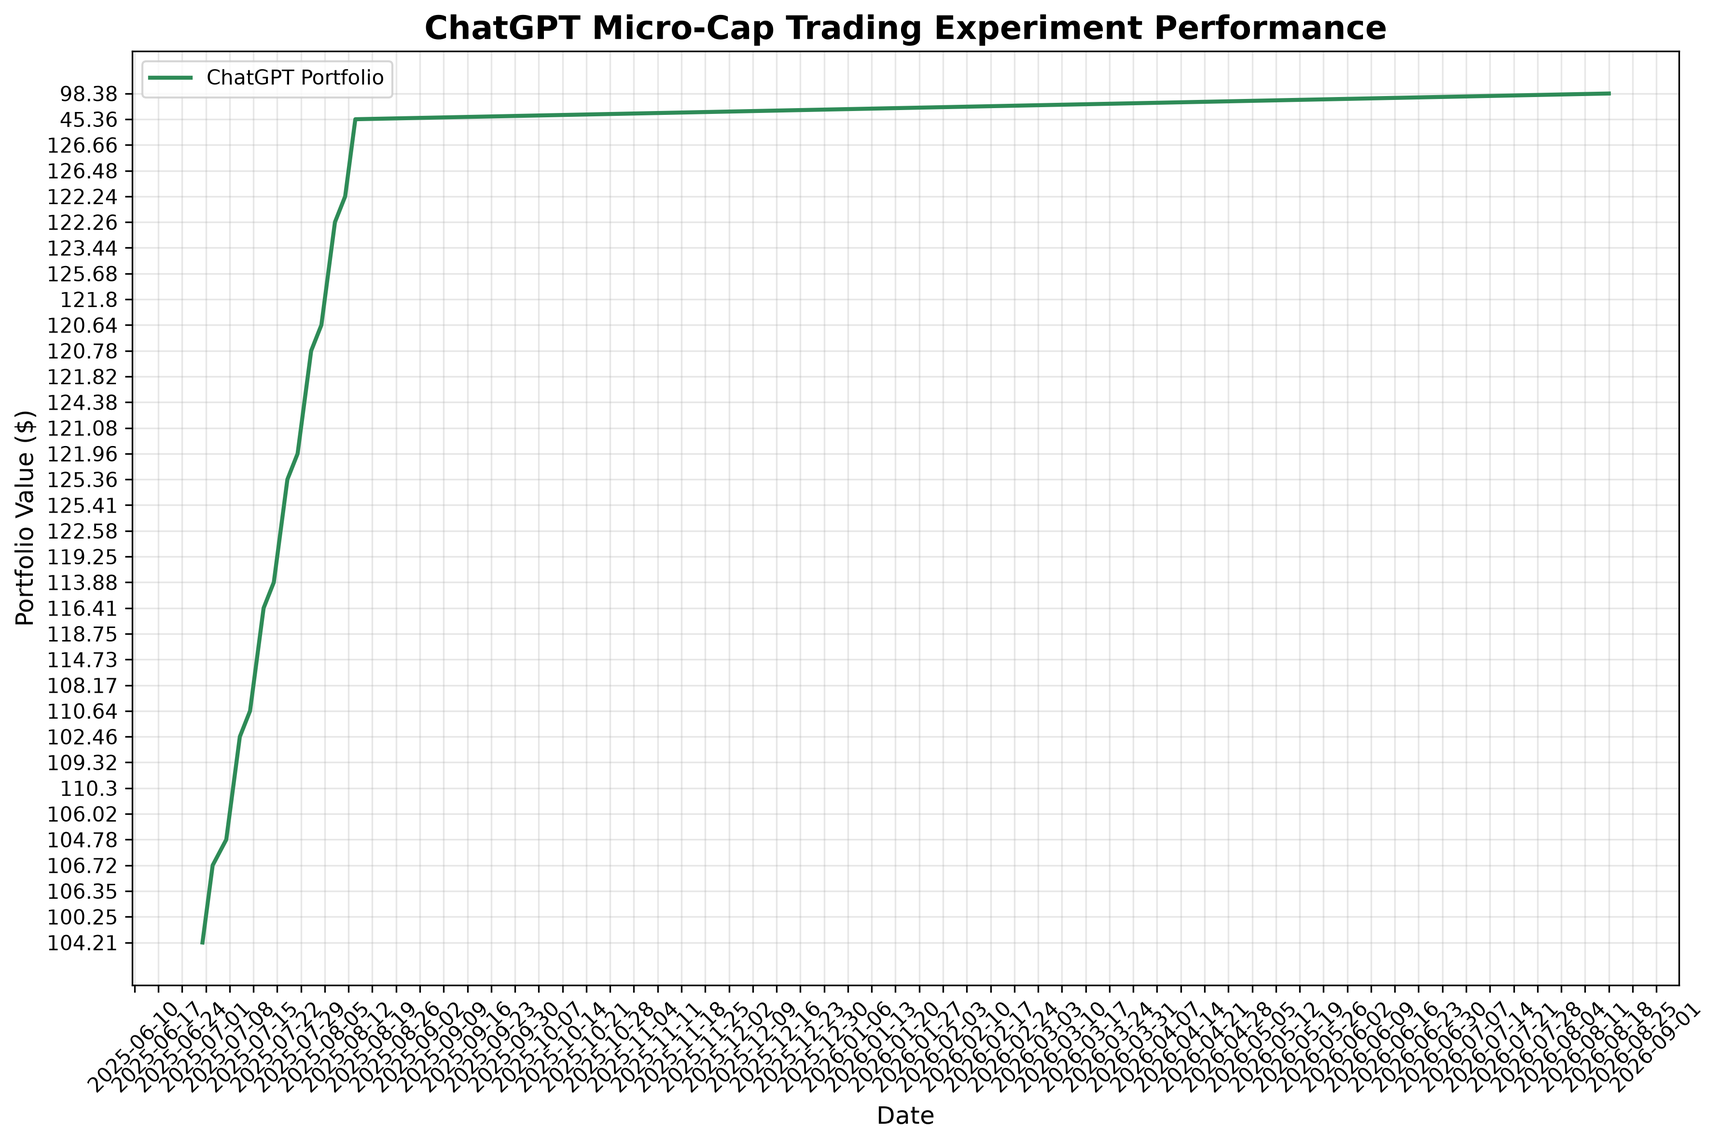
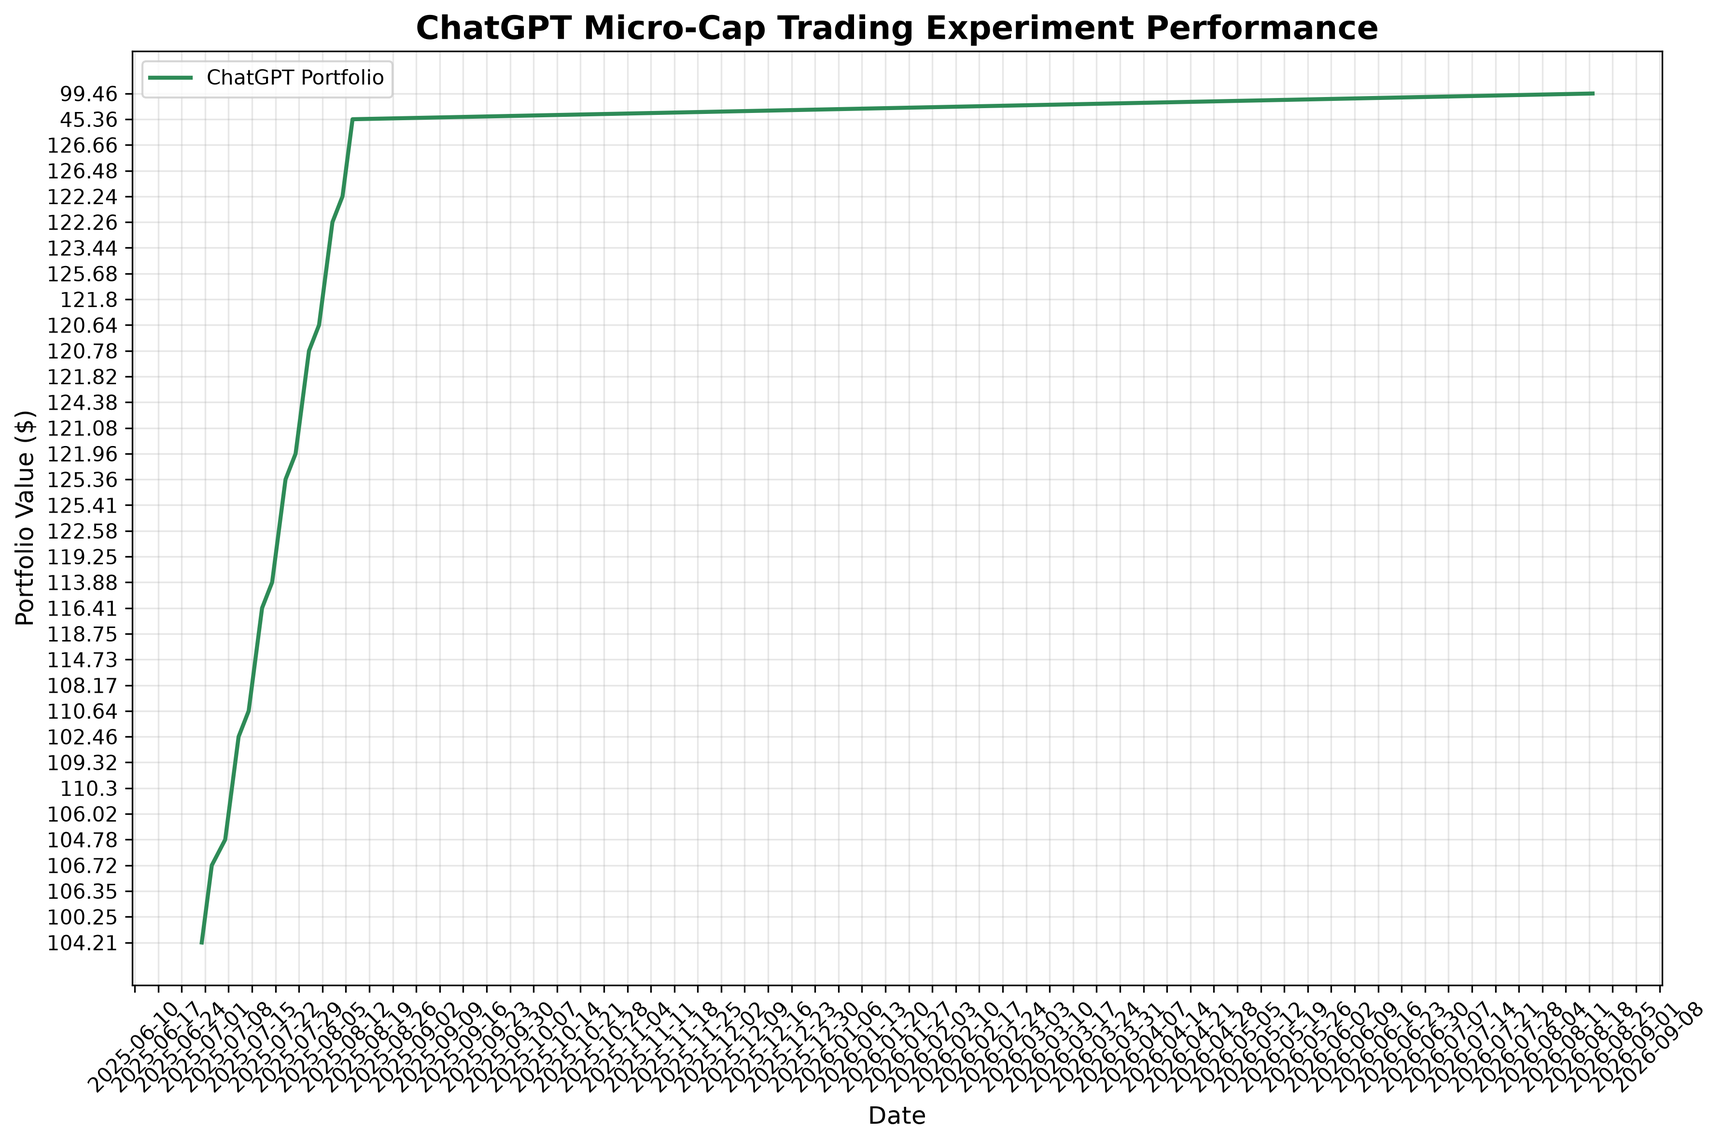
deploy: e15cad030d70fb3fbb51f9df6e22fa70c2f175c0

diff --git a/index.html b/index.html
@@ -105,7 +105,7 @@
                 <div class="stat-label">Total Trades</div>
             </div>
             <div class="stat-card">
-                <div class="stat-value" id="last-updated">2026-08-18</div>
+                <div class="stat-value" id="last-updated">2026-08-19</div>
                 <div class="stat-label">Last Updated</div>
             </div>
         </div>
@@ -160,8 +160,8 @@
     
     <script>
         // Portfolio data
-        const portfolioData = JSON.parse("[{&quot;Date&quot;: &quot;2025-08-11&quot;, &quot;Ticker&quot;: &quot;ABEO&quot;, &quot;Shares&quot;: 4.0, &quot;Buy Price&quot;: 5.77, &quot;Cost Basis&quot;: 23.08, &quot;Stop Loss&quot;: 4.9, &quot;Current Price&quot;: 6.28, &quot;Total Value&quot;: 25.12, &quot;PnL&quot;: 2.04, &quot;Action&quot;: &quot;HOLD&quot;, &quot;Cash Balance&quot;: NaN, &quot;Total Equity&quot;: NaN}, {&quot;Date&quot;: &quot;2025-08-11&quot;, &quot;Ticker&quot;: &quot;ACTU&quot;, &quot;Shares&quot;: 6.0, &quot;Buy Price&quot;: 5.75, &quot;Cost Basis&quot;: 34.5, &quot;Stop Loss&quot;: 4.89, &quot;Current Price&quot;: 8.01, &quot;Total Value&quot;: 48.06, &quot;PnL&quot;: 13.56, &quot;Action&quot;: &quot;HOLD&quot;, &quot;Cash Balance&quot;: NaN, &quot;Total Equity&quot;: NaN}, {&quot;Date&quot;: &quot;2025-08-11&quot;, &quot;Ticker&quot;: &quot;ESPR&quot;, &quot;Shares&quot;: 2.0, &quot;Buy Price&quot;: 1.91, &quot;Cost Basis&quot;: 3.82, &quot;Stop Loss&quot;: 1.6, &quot;Current Price&quot;: 1.85, &quot;Total Value&quot;: 3.7, &quot;PnL&quot;: -0.12, &quot;Action&quot;: &quot;HOLD&quot;, &quot;Cash Balance&quot;: NaN, &quot;Total Equity&quot;: NaN}, {&quot;Date&quot;: &quot;2025-08-11&quot;, &quot;Ticker&quot;: &quot;TOTAL&quot;, &quot;Shares&quot;: NaN, &quot;Buy Price&quot;: NaN, &quot;Cost Basis&quot;: NaN, &quot;Stop Loss&quot;: NaN, &quot;Current Price&quot;: NaN, &quot;Total Value&quot;: 76.88, &quot;PnL&quot;: 15.48, &quot;Action&quot;: NaN, &quot;Cash Balance&quot;: 45.36, &quot;Total Equity&quot;: &quot;122.24&quot;}, {&quot;Date&quot;: &quot;2025-08-12&quot;, &quot;Ticker&quot;: &quot;ABEO&quot;, &quot;Shares&quot;: 4.0, &quot;Buy Price&quot;: 5.77, &quot;Cost Basis&quot;: 23.08, &quot;Stop Loss&quot;: 4.9, &quot;Current Price&quot;: 6.38, &quot;Total Value&quot;: 25.52, &quot;PnL&quot;: 2.44, &quot;Action&quot;: &quot;HOLD&quot;, &quot;Cash Balance&quot;: NaN, &quot;Total Equity&quot;: NaN}, {&quot;Date&quot;: &quot;2025-08-12&quot;, &quot;Ticker&quot;: &quot;ACTU&quot;, &quot;Shares&quot;: 6.0, &quot;Buy Price&quot;: 5.75, &quot;Cost Basis&quot;: 34.5, &quot;Stop Loss&quot;: 4.89, &quot;Current Price&quot;: 8.67, &quot;Total Value&quot;: 52.02, &quot;PnL&quot;: 17.52, &quot;Action&quot;: &quot;HOLD&quot;, &quot;Cash Balance&quot;: NaN, &quot;Total Equity&quot;: NaN}, {&quot;Date&quot;: &quot;2025-08-12&quot;, &quot;Ticker&quot;: &quot;ESPR&quot;, &quot;Shares&quot;: 2.0, &quot;Buy Price&quot;: 1.91, &quot;Cost Basis&quot;: 3.82, &quot;Stop Loss&quot;: 1.6, &quot;Current Price&quot;: 1.79, &quot;Total Value&quot;: 3.58, &quot;PnL&quot;: -0.24, &quot;Action&quot;: &quot;HOLD&quot;, &quot;Cash Balance&quot;: NaN, &quot;Total Equity&quot;: NaN}, {&quot;Date&quot;: &quot;2025-08-12&quot;, &quot;Ticker&quot;: &quot;TOTAL&quot;, &quot;Shares&quot;: NaN, &quot;Buy Price&quot;: NaN, &quot;Cost Basis&quot;: NaN, &quot;Stop Loss&quot;: NaN, &quot;Current Price&quot;: NaN, &quot;Total Value&quot;: 81.12, &quot;PnL&quot;: 19.72, &quot;Action&quot;: NaN, &quot;Cash Balance&quot;: 45.36, &quot;Total Equity&quot;: &quot;126.48&quot;}, {&quot;Date&quot;: &quot;2025-08-13&quot;, &quot;Ticker&quot;: &quot;ABEO&quot;, &quot;Shares&quot;: 4.0, &quot;Buy Price&quot;: 5.77, &quot;Cost Basis&quot;: 23.08, &quot;Stop Loss&quot;: 4.9, &quot;Current Price&quot;: 6.56, &quot;Total Value&quot;: 26.24, &quot;PnL&quot;: 3.16, &quot;Action&quot;: &quot;HOLD&quot;, &quot;Cash Balance&quot;: NaN, &quot;Total Equity&quot;: NaN}, {&quot;Date&quot;: &quot;2025-08-13&quot;, &quot;Ticker&quot;: &quot;ACTU&quot;, &quot;Shares&quot;: 6.0, &quot;Buy Price&quot;: 5.75, &quot;Cost Basis&quot;: 34.5, &quot;Stop Loss&quot;: 4.89, &quot;Current Price&quot;: 8.53, &quot;Total Value&quot;: 51.18, &quot;PnL&quot;: 16.68, &quot;Action&quot;: &quot;HOLD&quot;, &quot;Cash Balance&quot;: NaN, &quot;Total Equity&quot;: NaN}, {&quot;Date&quot;: &quot;2025-08-13&quot;, &quot;Ticker&quot;: &quot;ESPR&quot;, &quot;Shares&quot;: 2.0, &quot;Buy Price&quot;: 1.91, &quot;Cost Basis&quot;: 3.82, &quot;Stop Loss&quot;: 1.6, &quot;Current Price&quot;: 1.94, &quot;Total Value&quot;: 3.88, &quot;PnL&quot;: 0.06, &quot;Action&quot;: &quot;HOLD&quot;, &quot;Cash Balance&quot;: NaN, &quot;Total Equity&quot;: NaN}, {&quot;Date&quot;: &quot;2025-08-13&quot;, &quot;Ticker&quot;: &quot;TOTAL&quot;, &quot;Shares&quot;: NaN, &quot;Buy Price&quot;: NaN, &quot;Cost Basis&quot;: NaN, &quot;Stop Loss&quot;: NaN, &quot;Current Price&quot;: NaN, &quot;Total Value&quot;: 81.3, &quot;PnL&quot;: 19.9, &quot;Action&quot;: NaN, &quot;Cash Balance&quot;: 45.36, &quot;Total Equity&quot;: &quot;126.66&quot;}, {&quot;Date&quot;: &quot;2025-08-14&quot;, &quot;Ticker&quot;: &quot;ABEO&quot;, &quot;Shares&quot;: 4.0, &quot;Buy Price&quot;: 5.77, &quot;Cost Basis&quot;: 23.08, &quot;Stop Loss&quot;: 4.9, &quot;Current Price&quot;: NaN, &quot;Total Value&quot;: NaN, &quot;PnL&quot;: NaN, &quot;Action&quot;: &quot;NO DATA&quot;, &quot;Cash Balance&quot;: NaN, &quot;Total Equity&quot;: NaN}, {&quot;Date&quot;: &quot;2025-08-14&quot;, &quot;Ticker&quot;: &quot;ACTU&quot;, &quot;Shares&quot;: 6.0, &quot;Buy Price&quot;: 5.75, &quot;Cost Basis&quot;: 34.5, &quot;Stop Loss&quot;: 4.89, &quot;Current Price&quot;: NaN, &quot;Total Value&quot;: NaN, &quot;PnL&quot;: NaN, &quot;Action&quot;: &quot;NO DATA&quot;, &quot;Cash Balance&quot;: NaN, &quot;Total Equity&quot;: NaN}, {&quot;Date&quot;: &quot;2025-08-14&quot;, &quot;Ticker&quot;: &quot;ESPR&quot;, &quot;Shares&quot;: 2.0, &quot;Buy Price&quot;: 1.91, &quot;Cost Basis&quot;: 3.82, &quot;Stop Loss&quot;: 1.6, &quot;Current Price&quot;: NaN, &quot;Total Value&quot;: NaN, &quot;PnL&quot;: NaN, &quot;Action&quot;: &quot;NO DATA&quot;, &quot;Cash Balance&quot;: NaN, &quot;Total Equity&quot;: NaN}, {&quot;Date&quot;: &quot;2025-08-14&quot;, &quot;Ticker&quot;: &quot;TOTAL&quot;, &quot;Shares&quot;: NaN, &quot;Buy Price&quot;: NaN, &quot;Cost Basis&quot;: NaN, &quot;Stop Loss&quot;: NaN, &quot;Current Price&quot;: NaN, &quot;Total Value&quot;: 0.0, &quot;PnL&quot;: 0.0, &quot;Action&quot;: NaN, &quot;Cash Balance&quot;: 45.36, &quot;Total Equity&quot;: &quot;45.36&quot;}, {&quot;Date&quot;: &quot;2026-08-18&quot;, &quot;Ticker&quot;: &quot;ABEO&quot;, &quot;Shares&quot;: 4.0, &quot;Buy Price&quot;: 5.77, &quot;Cost Basis&quot;: 23.08, &quot;Stop Loss&quot;: 4.9, &quot;Current Price&quot;: 5.92, &quot;Total Value&quot;: 23.68, &quot;PnL&quot;: 0.6, &quot;Action&quot;: &quot;HOLD&quot;, &quot;Cash Balance&quot;: NaN, &quot;Total Equity&quot;: NaN}, {&quot;Date&quot;: &quot;2026-08-18&quot;, &quot;Ticker&quot;: &quot;ACTU&quot;, &quot;Shares&quot;: 6.0, &quot;Buy Price&quot;: 5.75, &quot;Cost Basis&quot;: 34.5, &quot;Stop Loss&quot;: 4.89, &quot;Current Price&quot;: 4.89, &quot;Total Value&quot;: 29.34, &quot;PnL&quot;: -5.16, &quot;Action&quot;: &quot;SELL - Stop Loss Triggered&quot;, &quot;Cash Balance&quot;: NaN, &quot;Total Equity&quot;: NaN}, {&quot;Date&quot;: &quot;2026-08-18&quot;, &quot;Ticker&quot;: &quot;ESPR&quot;, &quot;Shares&quot;: 2.0, &quot;Buy Price&quot;: 1.91, &quot;Cost Basis&quot;: 3.82, &quot;Stop Loss&quot;: 1.6, &quot;Current Price&quot;: NaN, &quot;Total Value&quot;: NaN, &quot;PnL&quot;: NaN, &quot;Action&quot;: &quot;NO DATA&quot;, &quot;Cash Balance&quot;: NaN, &quot;Total Equity&quot;: NaN}, {&quot;Date&quot;: &quot;2026-08-18&quot;, &quot;Ticker&quot;: &quot;TOTAL&quot;, &quot;Shares&quot;: NaN, &quot;Buy Price&quot;: NaN, &quot;Cost Basis&quot;: NaN, &quot;Stop Loss&quot;: NaN, &quot;Current Price&quot;: NaN, &quot;Total Value&quot;: 23.68, &quot;PnL&quot;: 0.6, &quot;Action&quot;: NaN, &quot;Cash Balance&quot;: 74.7, &quot;Total Equity&quot;: &quot;98.38&quot;}]");
-        const tradeData = JSON.parse("[{&quot;Date&quot;: &quot;2025-07-08&quot;, &quot;Ticker&quot;: &quot;IINN&quot;, &quot;Shares Bought&quot;: 20.0, &quot;Buy Price&quot;: 1.5, &quot;Cost Basis&quot;: 30.0, &quot;PnL&quot;: 0.0, &quot;Reason&quot;: &quot;MANUAL BUY - New position&quot;, &quot;Shares Sold&quot;: NaN, &quot;Sell Price&quot;: NaN}, {&quot;Date&quot;: &quot;2025-07-21&quot;, &quot;Ticker&quot;: &quot;CADL&quot;, &quot;Shares Bought&quot;: NaN, &quot;Buy Price&quot;: NaN, &quot;Cost Basis&quot;: 25.2, &quot;PnL&quot;: 8.5, &quot;Reason&quot;: &quot;MANUAL SELL - GAIN CAPITAL FOR ACTU&quot;, &quot;Shares Sold&quot;: 5.0, &quot;Sell Price&quot;: 6.59}, {&quot;Date&quot;: &quot;2025-07-21&quot;, &quot;Ticker&quot;: &quot;ACTU&quot;, &quot;Shares Bought&quot;: 6.0, &quot;Buy Price&quot;: 5.75, &quot;Cost Basis&quot;: 34.5, &quot;PnL&quot;: 0.0, &quot;Reason&quot;: &quot;MANUAL BUY - New position&quot;, &quot;Shares Sold&quot;: NaN, &quot;Sell Price&quot;: NaN}, {&quot;Date&quot;: &quot;2025-07-28&quot;, &quot;Ticker&quot;: &quot;IINN&quot;, &quot;Shares Bought&quot;: NaN, &quot;Buy Price&quot;: NaN, &quot;Cost Basis&quot;: 9.0, &quot;PnL&quot;: -0.5400000000000009, &quot;Reason&quot;: &quot;MANUAL SELL - POSITION REDUCTION&quot;, &quot;Shares Sold&quot;: 6.0, &quot;Sell Price&quot;: 1.41}, {&quot;Date&quot;: &quot;2025-07-29&quot;, &quot;Ticker&quot;: &quot;AZTR&quot;, &quot;Shares Bought&quot;: NaN, &quot;Buy Price&quot;: NaN, &quot;Cost Basis&quot;: 13.75, &quot;PnL&quot;: -2.75, &quot;Reason&quot;: &quot;MANUAL SELL - DILUTION RISK&quot;, &quot;Shares Sold&quot;: 55.0, &quot;Sell Price&quot;: 0.2}, {&quot;Date&quot;: &quot;2025-08-01&quot;, &quot;Ticker&quot;: &quot;IINN&quot;, &quot;Shares Bought&quot;: 2.0, &quot;Buy Price&quot;: 1.74, &quot;Cost Basis&quot;: 3.48, &quot;PnL&quot;: 0.0, &quot;Reason&quot;: &quot;MANUAL BUY - New position&quot;, &quot;Shares Sold&quot;: NaN, &quot;Sell Price&quot;: NaN}, {&quot;Date&quot;: &quot;2025-08-01&quot;, &quot;Ticker&quot;: &quot;ABEO&quot;, &quot;Shares Bought&quot;: NaN, &quot;Buy Price&quot;: NaN, &quot;Cost Basis&quot;: 11.54, &quot;PnL&quot;: 1.200000000000001, &quot;Reason&quot;: &quot;MANUAL SELL - TRIM AFTER SUPPORT LOSS&quot;, &quot;Shares Sold&quot;: 2.0, &quot;Sell Price&quot;: 6.37}, {&quot;Date&quot;: &quot;2025-08-07&quot;, &quot;Ticker&quot;: &quot;ESPR&quot;, &quot;Shares Bought&quot;: 2.0, &quot;Buy Price&quot;: 1.91, &quot;Cost Basis&quot;: 3.82, &quot;PnL&quot;: 0.0, &quot;Reason&quot;: &quot;MANUAL BUY - New position&quot;, &quot;Shares Sold&quot;: NaN, &quot;Sell Price&quot;: NaN}, {&quot;Date&quot;: &quot;2025-08-08&quot;, &quot;Ticker&quot;: &quot;IINN&quot;, &quot;Shares Bought&quot;: NaN, &quot;Buy Price&quot;: NaN, &quot;Cost Basis&quot;: 1.5, &quot;PnL&quot;: -6.4, &quot;Reason&quot;: &quot;AUTOMATED SELL - STOPLOSS TRIGGERED&quot;, &quot;Shares Sold&quot;: 16.0, &quot;Sell Price&quot;: 1.1}, {&quot;Date&quot;: &quot;2026-08-18&quot;, &quot;Ticker&quot;: &quot;ACTU&quot;, &quot;Shares Bought&quot;: NaN, &quot;Buy Price&quot;: NaN, &quot;Cost Basis&quot;: 5.75, &quot;PnL&quot;: -5.16, &quot;Reason&quot;: &quot;AUTOMATED SELL - STOPLOSS TRIGGERED&quot;, &quot;Shares Sold&quot;: 6.0, &quot;Sell Price&quot;: 4.89}]");
+        const portfolioData = JSON.parse("[{&quot;Date&quot;: &quot;2025-08-11&quot;, &quot;Ticker&quot;: &quot;ABEO&quot;, &quot;Shares&quot;: 4.0, &quot;Buy Price&quot;: 5.77, &quot;Cost Basis&quot;: 23.08, &quot;Stop Loss&quot;: 4.9, &quot;Current Price&quot;: 6.28, &quot;Total Value&quot;: 25.12, &quot;PnL&quot;: 2.04, &quot;Action&quot;: &quot;HOLD&quot;, &quot;Cash Balance&quot;: NaN, &quot;Total Equity&quot;: NaN}, {&quot;Date&quot;: &quot;2025-08-11&quot;, &quot;Ticker&quot;: &quot;ACTU&quot;, &quot;Shares&quot;: 6.0, &quot;Buy Price&quot;: 5.75, &quot;Cost Basis&quot;: 34.5, &quot;Stop Loss&quot;: 4.89, &quot;Current Price&quot;: 8.01, &quot;Total Value&quot;: 48.06, &quot;PnL&quot;: 13.56, &quot;Action&quot;: &quot;HOLD&quot;, &quot;Cash Balance&quot;: NaN, &quot;Total Equity&quot;: NaN}, {&quot;Date&quot;: &quot;2025-08-11&quot;, &quot;Ticker&quot;: &quot;ESPR&quot;, &quot;Shares&quot;: 2.0, &quot;Buy Price&quot;: 1.91, &quot;Cost Basis&quot;: 3.82, &quot;Stop Loss&quot;: 1.6, &quot;Current Price&quot;: 1.85, &quot;Total Value&quot;: 3.7, &quot;PnL&quot;: -0.12, &quot;Action&quot;: &quot;HOLD&quot;, &quot;Cash Balance&quot;: NaN, &quot;Total Equity&quot;: NaN}, {&quot;Date&quot;: &quot;2025-08-11&quot;, &quot;Ticker&quot;: &quot;TOTAL&quot;, &quot;Shares&quot;: NaN, &quot;Buy Price&quot;: NaN, &quot;Cost Basis&quot;: NaN, &quot;Stop Loss&quot;: NaN, &quot;Current Price&quot;: NaN, &quot;Total Value&quot;: 76.88, &quot;PnL&quot;: 15.48, &quot;Action&quot;: NaN, &quot;Cash Balance&quot;: 45.36, &quot;Total Equity&quot;: &quot;122.24&quot;}, {&quot;Date&quot;: &quot;2025-08-12&quot;, &quot;Ticker&quot;: &quot;ABEO&quot;, &quot;Shares&quot;: 4.0, &quot;Buy Price&quot;: 5.77, &quot;Cost Basis&quot;: 23.08, &quot;Stop Loss&quot;: 4.9, &quot;Current Price&quot;: 6.38, &quot;Total Value&quot;: 25.52, &quot;PnL&quot;: 2.44, &quot;Action&quot;: &quot;HOLD&quot;, &quot;Cash Balance&quot;: NaN, &quot;Total Equity&quot;: NaN}, {&quot;Date&quot;: &quot;2025-08-12&quot;, &quot;Ticker&quot;: &quot;ACTU&quot;, &quot;Shares&quot;: 6.0, &quot;Buy Price&quot;: 5.75, &quot;Cost Basis&quot;: 34.5, &quot;Stop Loss&quot;: 4.89, &quot;Current Price&quot;: 8.67, &quot;Total Value&quot;: 52.02, &quot;PnL&quot;: 17.52, &quot;Action&quot;: &quot;HOLD&quot;, &quot;Cash Balance&quot;: NaN, &quot;Total Equity&quot;: NaN}, {&quot;Date&quot;: &quot;2025-08-12&quot;, &quot;Ticker&quot;: &quot;ESPR&quot;, &quot;Shares&quot;: 2.0, &quot;Buy Price&quot;: 1.91, &quot;Cost Basis&quot;: 3.82, &quot;Stop Loss&quot;: 1.6, &quot;Current Price&quot;: 1.79, &quot;Total Value&quot;: 3.58, &quot;PnL&quot;: -0.24, &quot;Action&quot;: &quot;HOLD&quot;, &quot;Cash Balance&quot;: NaN, &quot;Total Equity&quot;: NaN}, {&quot;Date&quot;: &quot;2025-08-12&quot;, &quot;Ticker&quot;: &quot;TOTAL&quot;, &quot;Shares&quot;: NaN, &quot;Buy Price&quot;: NaN, &quot;Cost Basis&quot;: NaN, &quot;Stop Loss&quot;: NaN, &quot;Current Price&quot;: NaN, &quot;Total Value&quot;: 81.12, &quot;PnL&quot;: 19.72, &quot;Action&quot;: NaN, &quot;Cash Balance&quot;: 45.36, &quot;Total Equity&quot;: &quot;126.48&quot;}, {&quot;Date&quot;: &quot;2025-08-13&quot;, &quot;Ticker&quot;: &quot;ABEO&quot;, &quot;Shares&quot;: 4.0, &quot;Buy Price&quot;: 5.77, &quot;Cost Basis&quot;: 23.08, &quot;Stop Loss&quot;: 4.9, &quot;Current Price&quot;: 6.56, &quot;Total Value&quot;: 26.24, &quot;PnL&quot;: 3.16, &quot;Action&quot;: &quot;HOLD&quot;, &quot;Cash Balance&quot;: NaN, &quot;Total Equity&quot;: NaN}, {&quot;Date&quot;: &quot;2025-08-13&quot;, &quot;Ticker&quot;: &quot;ACTU&quot;, &quot;Shares&quot;: 6.0, &quot;Buy Price&quot;: 5.75, &quot;Cost Basis&quot;: 34.5, &quot;Stop Loss&quot;: 4.89, &quot;Current Price&quot;: 8.53, &quot;Total Value&quot;: 51.18, &quot;PnL&quot;: 16.68, &quot;Action&quot;: &quot;HOLD&quot;, &quot;Cash Balance&quot;: NaN, &quot;Total Equity&quot;: NaN}, {&quot;Date&quot;: &quot;2025-08-13&quot;, &quot;Ticker&quot;: &quot;ESPR&quot;, &quot;Shares&quot;: 2.0, &quot;Buy Price&quot;: 1.91, &quot;Cost Basis&quot;: 3.82, &quot;Stop Loss&quot;: 1.6, &quot;Current Price&quot;: 1.94, &quot;Total Value&quot;: 3.88, &quot;PnL&quot;: 0.06, &quot;Action&quot;: &quot;HOLD&quot;, &quot;Cash Balance&quot;: NaN, &quot;Total Equity&quot;: NaN}, {&quot;Date&quot;: &quot;2025-08-13&quot;, &quot;Ticker&quot;: &quot;TOTAL&quot;, &quot;Shares&quot;: NaN, &quot;Buy Price&quot;: NaN, &quot;Cost Basis&quot;: NaN, &quot;Stop Loss&quot;: NaN, &quot;Current Price&quot;: NaN, &quot;Total Value&quot;: 81.3, &quot;PnL&quot;: 19.9, &quot;Action&quot;: NaN, &quot;Cash Balance&quot;: 45.36, &quot;Total Equity&quot;: &quot;126.66&quot;}, {&quot;Date&quot;: &quot;2025-08-14&quot;, &quot;Ticker&quot;: &quot;ABEO&quot;, &quot;Shares&quot;: 4.0, &quot;Buy Price&quot;: 5.77, &quot;Cost Basis&quot;: 23.08, &quot;Stop Loss&quot;: 4.9, &quot;Current Price&quot;: NaN, &quot;Total Value&quot;: NaN, &quot;PnL&quot;: NaN, &quot;Action&quot;: &quot;NO DATA&quot;, &quot;Cash Balance&quot;: NaN, &quot;Total Equity&quot;: NaN}, {&quot;Date&quot;: &quot;2025-08-14&quot;, &quot;Ticker&quot;: &quot;ACTU&quot;, &quot;Shares&quot;: 6.0, &quot;Buy Price&quot;: 5.75, &quot;Cost Basis&quot;: 34.5, &quot;Stop Loss&quot;: 4.89, &quot;Current Price&quot;: NaN, &quot;Total Value&quot;: NaN, &quot;PnL&quot;: NaN, &quot;Action&quot;: &quot;NO DATA&quot;, &quot;Cash Balance&quot;: NaN, &quot;Total Equity&quot;: NaN}, {&quot;Date&quot;: &quot;2025-08-14&quot;, &quot;Ticker&quot;: &quot;ESPR&quot;, &quot;Shares&quot;: 2.0, &quot;Buy Price&quot;: 1.91, &quot;Cost Basis&quot;: 3.82, &quot;Stop Loss&quot;: 1.6, &quot;Current Price&quot;: NaN, &quot;Total Value&quot;: NaN, &quot;PnL&quot;: NaN, &quot;Action&quot;: &quot;NO DATA&quot;, &quot;Cash Balance&quot;: NaN, &quot;Total Equity&quot;: NaN}, {&quot;Date&quot;: &quot;2025-08-14&quot;, &quot;Ticker&quot;: &quot;TOTAL&quot;, &quot;Shares&quot;: NaN, &quot;Buy Price&quot;: NaN, &quot;Cost Basis&quot;: NaN, &quot;Stop Loss&quot;: NaN, &quot;Current Price&quot;: NaN, &quot;Total Value&quot;: 0.0, &quot;PnL&quot;: 0.0, &quot;Action&quot;: NaN, &quot;Cash Balance&quot;: 45.36, &quot;Total Equity&quot;: &quot;45.36&quot;}, {&quot;Date&quot;: &quot;2026-08-19&quot;, &quot;Ticker&quot;: &quot;ABEO&quot;, &quot;Shares&quot;: 4.0, &quot;Buy Price&quot;: 5.77, &quot;Cost Basis&quot;: 23.08, &quot;Stop Loss&quot;: 4.9, &quot;Current Price&quot;: 6.19, &quot;Total Value&quot;: 24.76, &quot;PnL&quot;: 1.68, &quot;Action&quot;: &quot;HOLD&quot;, &quot;Cash Balance&quot;: NaN, &quot;Total Equity&quot;: NaN}, {&quot;Date&quot;: &quot;2026-08-19&quot;, &quot;Ticker&quot;: &quot;ACTU&quot;, &quot;Shares&quot;: 6.0, &quot;Buy Price&quot;: 5.75, &quot;Cost Basis&quot;: 34.5, &quot;Stop Loss&quot;: 4.89, &quot;Current Price&quot;: 4.89, &quot;Total Value&quot;: 29.34, &quot;PnL&quot;: -5.16, &quot;Action&quot;: &quot;SELL - Stop Loss Triggered&quot;, &quot;Cash Balance&quot;: NaN, &quot;Total Equity&quot;: NaN}, {&quot;Date&quot;: &quot;2026-08-19&quot;, &quot;Ticker&quot;: &quot;ESPR&quot;, &quot;Shares&quot;: 2.0, &quot;Buy Price&quot;: 1.91, &quot;Cost Basis&quot;: 3.82, &quot;Stop Loss&quot;: 1.6, &quot;Current Price&quot;: NaN, &quot;Total Value&quot;: NaN, &quot;PnL&quot;: NaN, &quot;Action&quot;: &quot;NO DATA&quot;, &quot;Cash Balance&quot;: NaN, &quot;Total Equity&quot;: NaN}, {&quot;Date&quot;: &quot;2026-08-19&quot;, &quot;Ticker&quot;: &quot;TOTAL&quot;, &quot;Shares&quot;: NaN, &quot;Buy Price&quot;: NaN, &quot;Cost Basis&quot;: NaN, &quot;Stop Loss&quot;: NaN, &quot;Current Price&quot;: NaN, &quot;Total Value&quot;: 24.76, &quot;PnL&quot;: 1.68, &quot;Action&quot;: NaN, &quot;Cash Balance&quot;: 74.7, &quot;Total Equity&quot;: &quot;99.46&quot;}]");
+        const tradeData = JSON.parse("[{&quot;Date&quot;: &quot;2025-07-08&quot;, &quot;Ticker&quot;: &quot;IINN&quot;, &quot;Shares Bought&quot;: 20.0, &quot;Buy Price&quot;: 1.5, &quot;Cost Basis&quot;: 30.0, &quot;PnL&quot;: 0.0, &quot;Reason&quot;: &quot;MANUAL BUY - New position&quot;, &quot;Shares Sold&quot;: NaN, &quot;Sell Price&quot;: NaN}, {&quot;Date&quot;: &quot;2025-07-21&quot;, &quot;Ticker&quot;: &quot;CADL&quot;, &quot;Shares Bought&quot;: NaN, &quot;Buy Price&quot;: NaN, &quot;Cost Basis&quot;: 25.2, &quot;PnL&quot;: 8.5, &quot;Reason&quot;: &quot;MANUAL SELL - GAIN CAPITAL FOR ACTU&quot;, &quot;Shares Sold&quot;: 5.0, &quot;Sell Price&quot;: 6.59}, {&quot;Date&quot;: &quot;2025-07-21&quot;, &quot;Ticker&quot;: &quot;ACTU&quot;, &quot;Shares Bought&quot;: 6.0, &quot;Buy Price&quot;: 5.75, &quot;Cost Basis&quot;: 34.5, &quot;PnL&quot;: 0.0, &quot;Reason&quot;: &quot;MANUAL BUY - New position&quot;, &quot;Shares Sold&quot;: NaN, &quot;Sell Price&quot;: NaN}, {&quot;Date&quot;: &quot;2025-07-28&quot;, &quot;Ticker&quot;: &quot;IINN&quot;, &quot;Shares Bought&quot;: NaN, &quot;Buy Price&quot;: NaN, &quot;Cost Basis&quot;: 9.0, &quot;PnL&quot;: -0.5400000000000009, &quot;Reason&quot;: &quot;MANUAL SELL - POSITION REDUCTION&quot;, &quot;Shares Sold&quot;: 6.0, &quot;Sell Price&quot;: 1.41}, {&quot;Date&quot;: &quot;2025-07-29&quot;, &quot;Ticker&quot;: &quot;AZTR&quot;, &quot;Shares Bought&quot;: NaN, &quot;Buy Price&quot;: NaN, &quot;Cost Basis&quot;: 13.75, &quot;PnL&quot;: -2.75, &quot;Reason&quot;: &quot;MANUAL SELL - DILUTION RISK&quot;, &quot;Shares Sold&quot;: 55.0, &quot;Sell Price&quot;: 0.2}, {&quot;Date&quot;: &quot;2025-08-01&quot;, &quot;Ticker&quot;: &quot;IINN&quot;, &quot;Shares Bought&quot;: 2.0, &quot;Buy Price&quot;: 1.74, &quot;Cost Basis&quot;: 3.48, &quot;PnL&quot;: 0.0, &quot;Reason&quot;: &quot;MANUAL BUY - New position&quot;, &quot;Shares Sold&quot;: NaN, &quot;Sell Price&quot;: NaN}, {&quot;Date&quot;: &quot;2025-08-01&quot;, &quot;Ticker&quot;: &quot;ABEO&quot;, &quot;Shares Bought&quot;: NaN, &quot;Buy Price&quot;: NaN, &quot;Cost Basis&quot;: 11.54, &quot;PnL&quot;: 1.200000000000001, &quot;Reason&quot;: &quot;MANUAL SELL - TRIM AFTER SUPPORT LOSS&quot;, &quot;Shares Sold&quot;: 2.0, &quot;Sell Price&quot;: 6.37}, {&quot;Date&quot;: &quot;2025-08-07&quot;, &quot;Ticker&quot;: &quot;ESPR&quot;, &quot;Shares Bought&quot;: 2.0, &quot;Buy Price&quot;: 1.91, &quot;Cost Basis&quot;: 3.82, &quot;PnL&quot;: 0.0, &quot;Reason&quot;: &quot;MANUAL BUY - New position&quot;, &quot;Shares Sold&quot;: NaN, &quot;Sell Price&quot;: NaN}, {&quot;Date&quot;: &quot;2025-08-08&quot;, &quot;Ticker&quot;: &quot;IINN&quot;, &quot;Shares Bought&quot;: NaN, &quot;Buy Price&quot;: NaN, &quot;Cost Basis&quot;: 1.5, &quot;PnL&quot;: -6.4, &quot;Reason&quot;: &quot;AUTOMATED SELL - STOPLOSS TRIGGERED&quot;, &quot;Shares Sold&quot;: 16.0, &quot;Sell Price&quot;: 1.1}, {&quot;Date&quot;: &quot;2026-08-19&quot;, &quot;Ticker&quot;: &quot;ACTU&quot;, &quot;Shares Bought&quot;: NaN, &quot;Buy Price&quot;: NaN, &quot;Cost Basis&quot;: 5.75, &quot;PnL&quot;: -5.16, &quot;Reason&quot;: &quot;AUTOMATED SELL - STOPLOSS TRIGGERED&quot;, &quot;Shares Sold&quot;: 6.0, &quot;Sell Price&quot;: 4.89}]");
         
         // Update total equity
         if (portfolioData.length > 0) {
